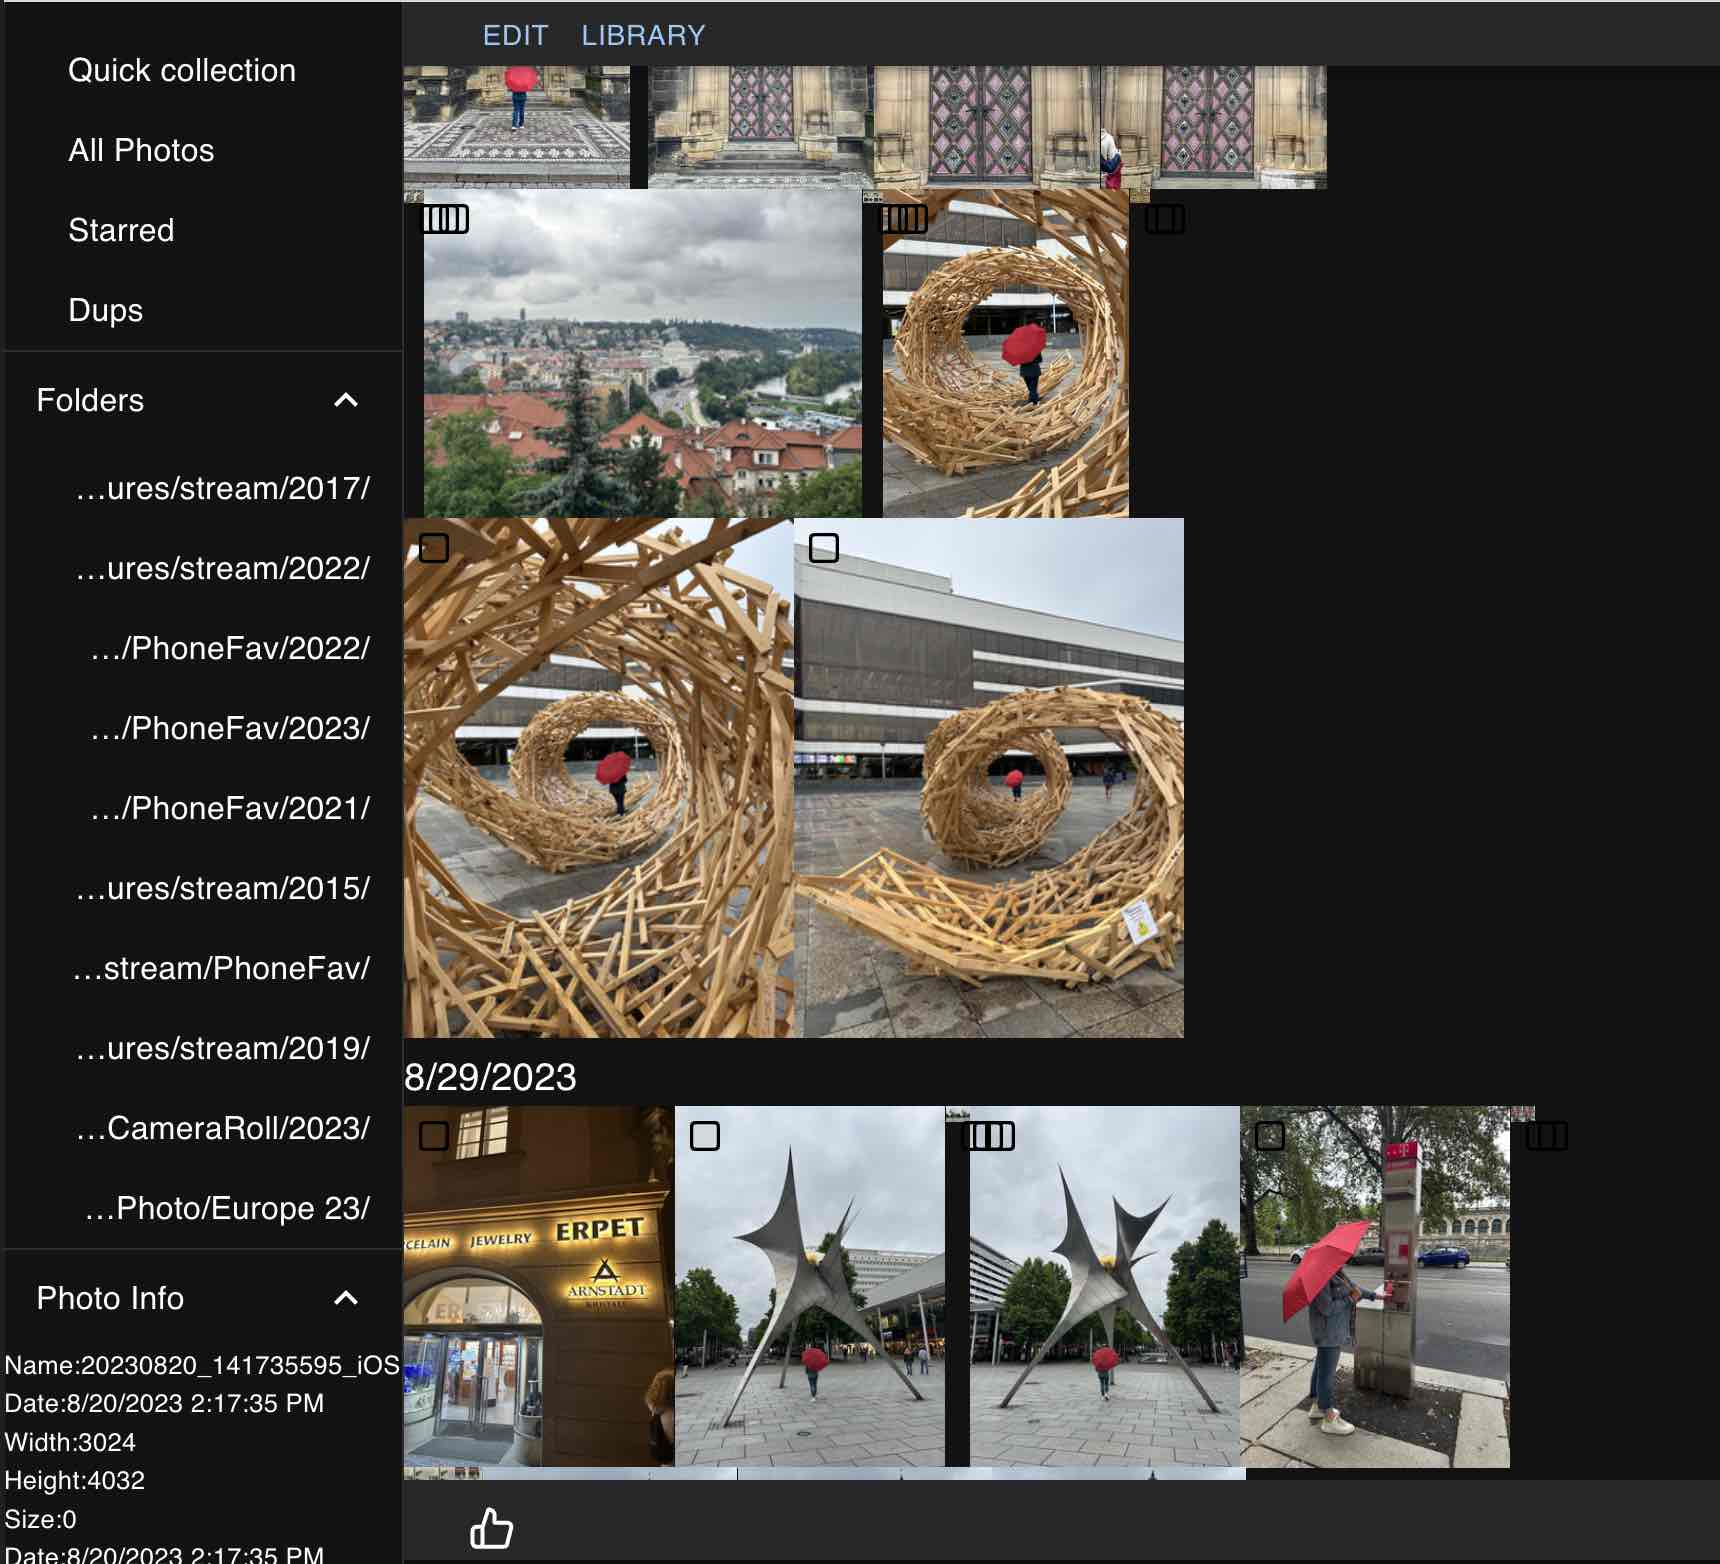
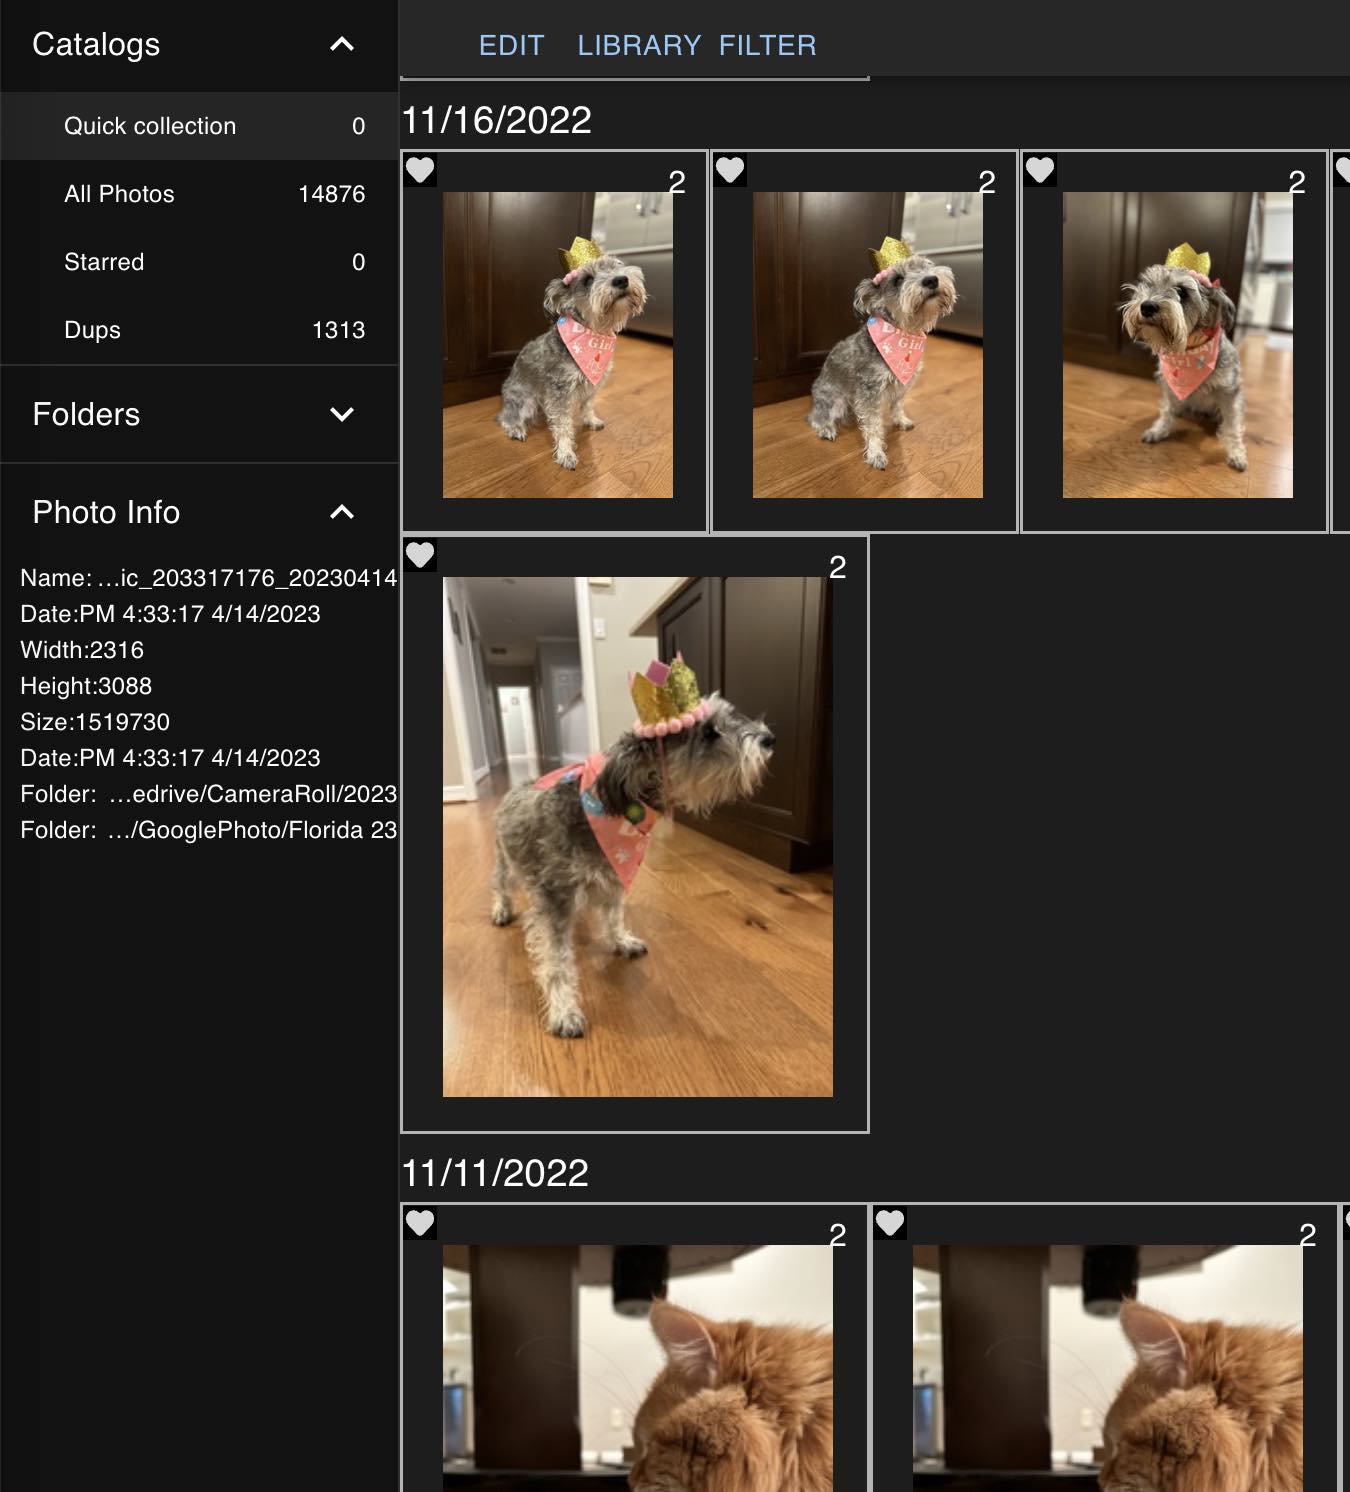
fix filtering
minor layout

diff --git a/web/src/photo/PhotoStore.ts b/web/src/photo/PhotoStore.ts
@@ -52,13 +52,22 @@ function buildDuplicateBuckets() {
   }
 }
 
-function filterPhotos(photos: Map<number, AlbumPhoto>, pred: (x: AlbumPhoto) => boolean) {
+function filterPhotos(photos: Map<number, AlbumPhoto> | AlbumPhoto[], pred: (x: AlbumPhoto) => boolean) {
   let filtered: AlbumPhoto[] = [];
-  for (let [key, photo] of photos) {
-    if (pred(photo)) {
-      filtered.push(photo);
+  if (Array.isArray(photos)) {
+    for (let photo of (photos as AlbumPhoto[])) {
+      if (pred(photo)) {
+        filtered.push(photo);
+      }
+    }
+  } else {
+    for (let [key, photo] of (photos as Map<number, AlbumPhoto>)) {
+      if (pred(photo)) {
+        filtered.push(photo);
+      }
     }
   }
+
   return filtered;
 }
 
@@ -85,21 +94,23 @@ export function getDuplicateBucket(photo: AlbumPhoto): number[] {
  * it is easier for us to keep lists and invalidate them as we go
  */
 export async function loadPhotoList(id: PhotoListId, pred?: (x: AlbumPhoto) => boolean): Promise<AlbumPhoto[]> {
-  let cachedList = photoLists.get(id);
-  if (cachedList) {
-    return cachedList;
-  }
-
   await loadLibrary();
 
-  let list = makeList(id, pred);
-  photoLists.set(id, list);
-  return list;
+  let cachedList = photoLists.get(id);
+  if (!cachedList) {
+    cachedList = makeList(id);
+    photoLists.set(id, cachedList);
+  }
+
+  if (pred) {
+    cachedList = filterPhotos(cachedList, pred);
+  }
+  return cachedList;
 }
 
-function makeList(id: PhotoListId, pred?: (x: AlbumPhoto) => boolean): AlbumPhoto[] {
+function makeList(id: PhotoListId): AlbumPhoto[] {
   if (typeof (id) === "number") {
-    let folderPhotos = filterPhotos(photoMap, (x: AlbumPhoto) => { return x.wire.folderId === id && ((pred) ? pred(x) : true) })
+    let folderPhotos = filterPhotos(photoMap, (x: AlbumPhoto) => { return x.wire.folderId === id })
     sortByDate(folderPhotos);
 
     return folderPhotos;
@@ -121,12 +132,12 @@ function makeList(id: PhotoListId, pred?: (x: AlbumPhoto) => boolean): AlbumPhot
           }
         }
 
-        return (pred) ? pred(x) : true;
+        return true;
       });
       sortByDate(allPhotos);
       return allPhotos;
     } else if (id === 'dups') {
-      let dupPhotos = filterPhotos(photoMap, (x: AlbumPhoto) => { return x.dupCount > 1 && ((pred) ? pred(x) : true); })
+      let dupPhotos = filterPhotos(photoMap, (x: AlbumPhoto) => { return x.dupCount > 1 })
       sortByDate(dupPhotos);
       return dupPhotos;
     } else {

diff --git a/web/src/commands/PhotoInfo.tsx b/web/src/commands/PhotoInfo.tsx
@@ -48,7 +48,12 @@ export function PhotoInfo() {
 
   return (
     <div className="PhotoInfo">
-      {getProperties(currentPhoto).map((x) => (<div>{x.name + x.value}</div>))}
+      {getProperties(currentPhoto).map((x) => (
+        <div className="PhotoInfoItem">
+          <div>{x.name}</div>
+          <div className="PhotoInfoValue">{x.value}</div>
+        </div>
+      ))}
     </div>
   );
 };

diff --git a/web/src/App.css b/web/src/App.css
@@ -59,6 +59,18 @@
   margin-left: 10px;
 }
 
+.PhotoInfoItem {
+  display: flex;
+}
+
+.PhotoInfoValue {
+  overflow: hidden;
+  text-overflow: ellipsis;
+  text-align: right;
+  text-wrap: nowrap;
+  direction: rtl;
+}
+
 .AlbumLayout {
   width: '100%';
   height: '100%';
